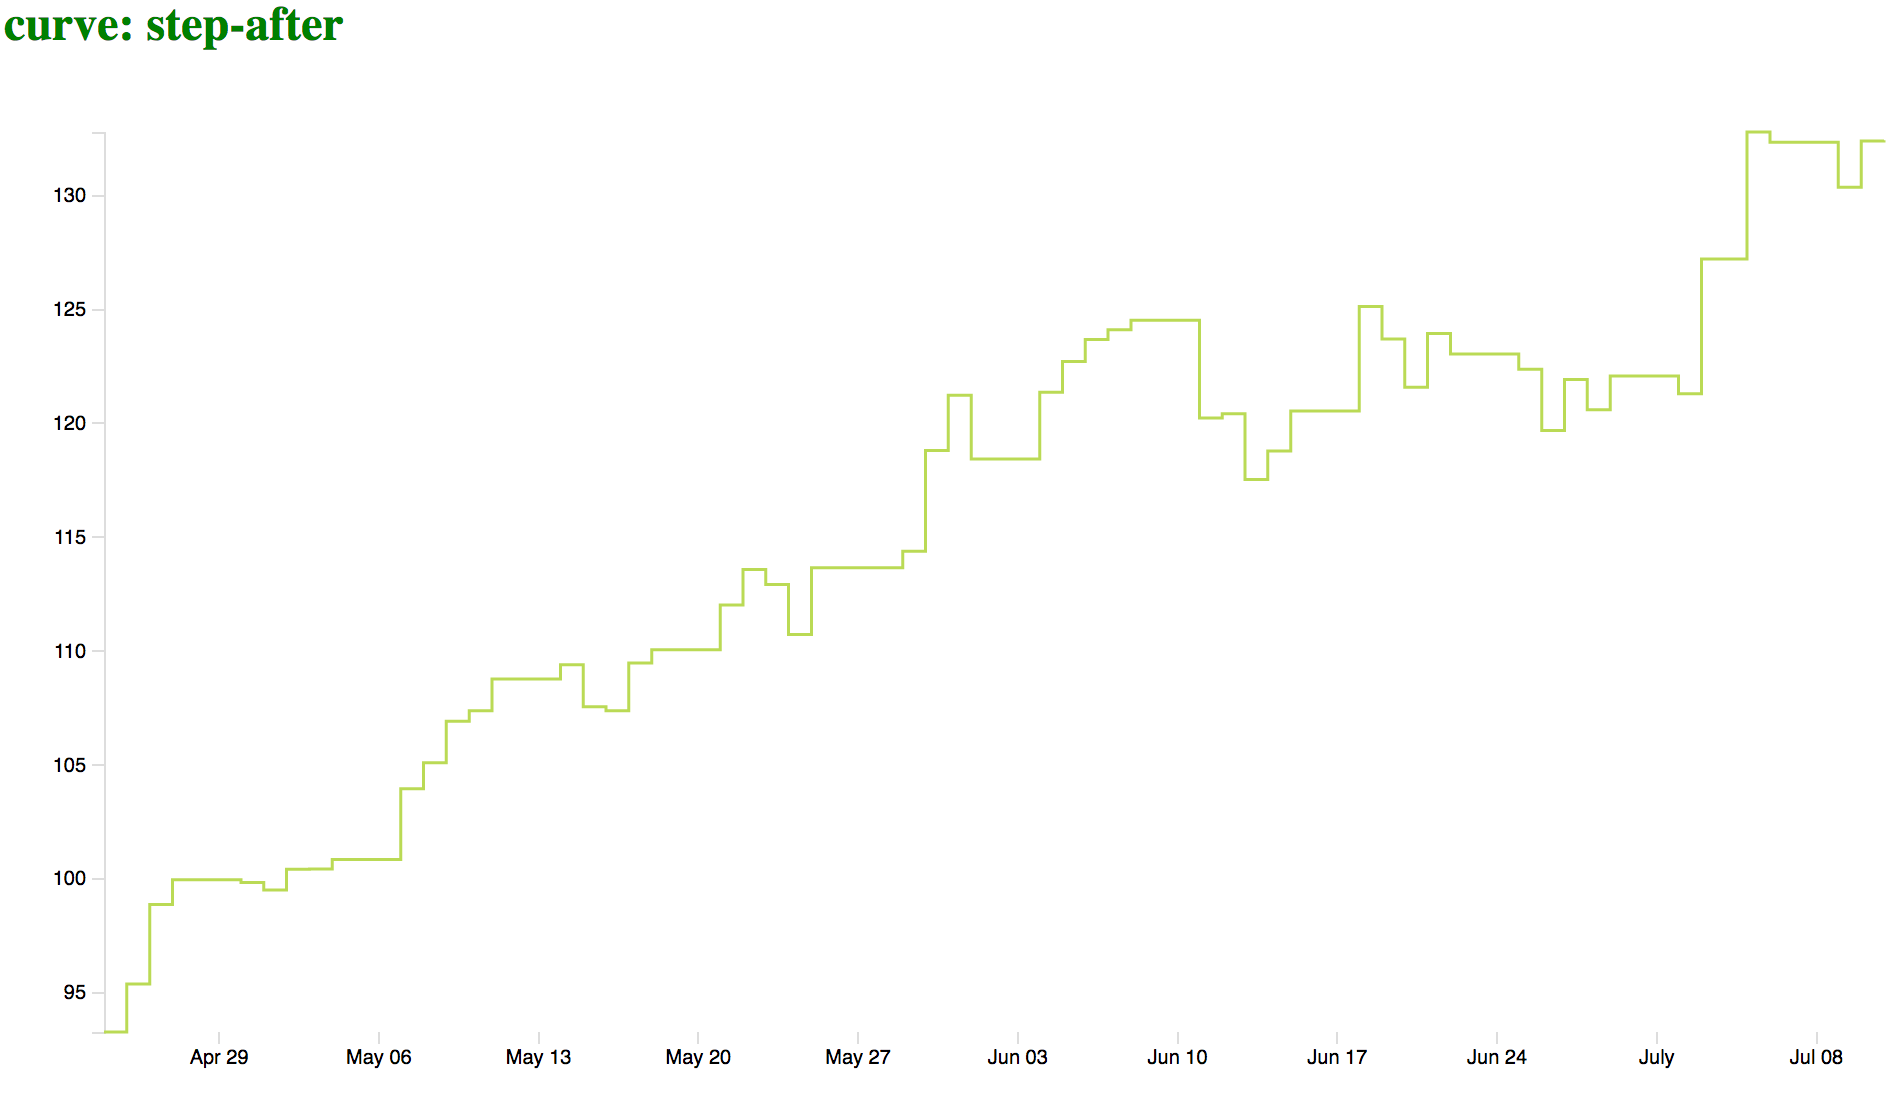
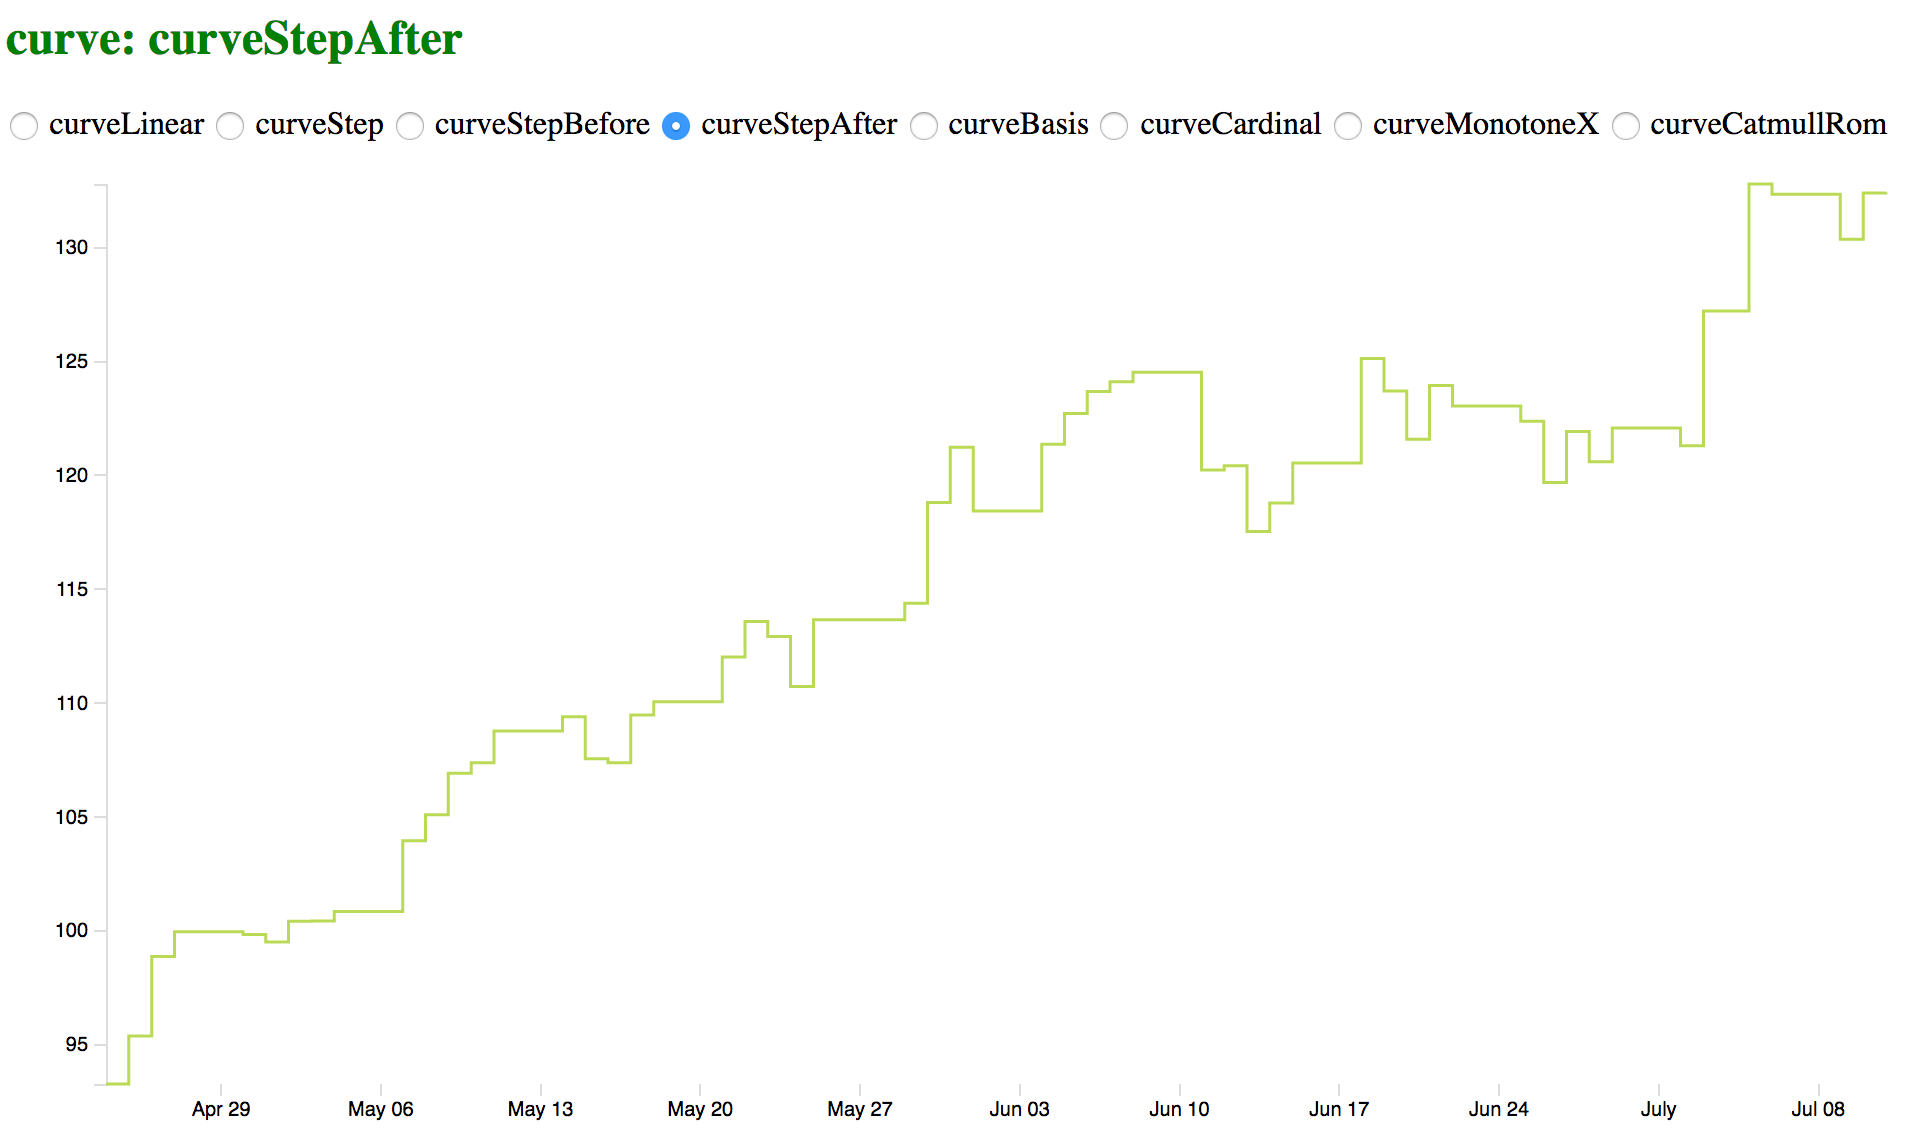
Make D3 curve selectable from list of radio buttons

diff --git a/src/app/line-chart/line-chart.component.ts b/src/app/line-chart/line-chart.component.ts
@@ -30,6 +30,19 @@ export class LineChartComponent implements OnChanges, AfterViewInit {
   private yAxis;
   private htmlElement: HTMLElement;
 
+  curveArray = [
+    {'curve': D3.curveLinear, 'curveTitle': 'curveLinear'},
+    {'curve': D3.curveStep, 'curveTitle': 'curveStep'},
+    {'curve': D3.curveStepBefore, 'curveTitle': 'curveStepBefore'},
+    {'curve': D3.curveStepAfter, 'curveTitle': 'curveStepAfter'},
+    {'curve': D3.curveBasis, 'curveTitle': 'curveBasis'},
+    {'curve': D3.curveCardinal, 'curveTitle': 'curveCardinal'},
+    {'curve': D3.curveMonotoneX, 'curveTitle': 'curveMonotoneX'},
+    {'curve': D3.curveCatmullRom, 'curveTitle': 'curveCatmullRom'}
+  ];
+
+  selectedCurve = 'curveLinear';
+
   constructor() { }
 
   ngAfterViewInit() {
@@ -39,6 +52,11 @@ export class LineChartComponent implements OnChanges, AfterViewInit {
   }
 
   ngOnChanges(): void {
+    this.setup();
+  }
+
+  onCurveChange(curve: string) {
+    this.selectedCurve = curve;
     this.setup();
   }
 
@@ -59,8 +77,8 @@ export class LineChartComponent implements OnChanges, AfterViewInit {
 
     let self = this;
 
-    var line = D3.line()
-      .curve(D3.curveStepAfter)
+    let line = D3.line()
+      .curve(this.curveArray.find((item) => item.curveTitle === this.selectedCurve).curve || D3.curveLinear)
       .x(function(d: any) { return self.xScale(d.date); })
       .y(function(d: any) { return self.yScale(d.close); });
 

diff --git a/src/app/line-chart/line-chart.component.html b/src/app/line-chart/line-chart.component.html
@@ -1,2 +1,9 @@
-<h2>curve: step-after</h2>
+<h2>curve: {{ this.selectedCurve }}</h2>
+<div class="curve-options">
+  <label *ngFor="let curve of curveArray">
+    <input type="radio" name="curveOptions"
+      [checked]="curve.curveTitle === selectedCurve"
+      [value]="curve.curveTitle" (change)="onCurveChange(curve.curveTitle)"> {{ curve.curveTitle }}
+  </label>
+</div>
 <div #container class="container"><div>
